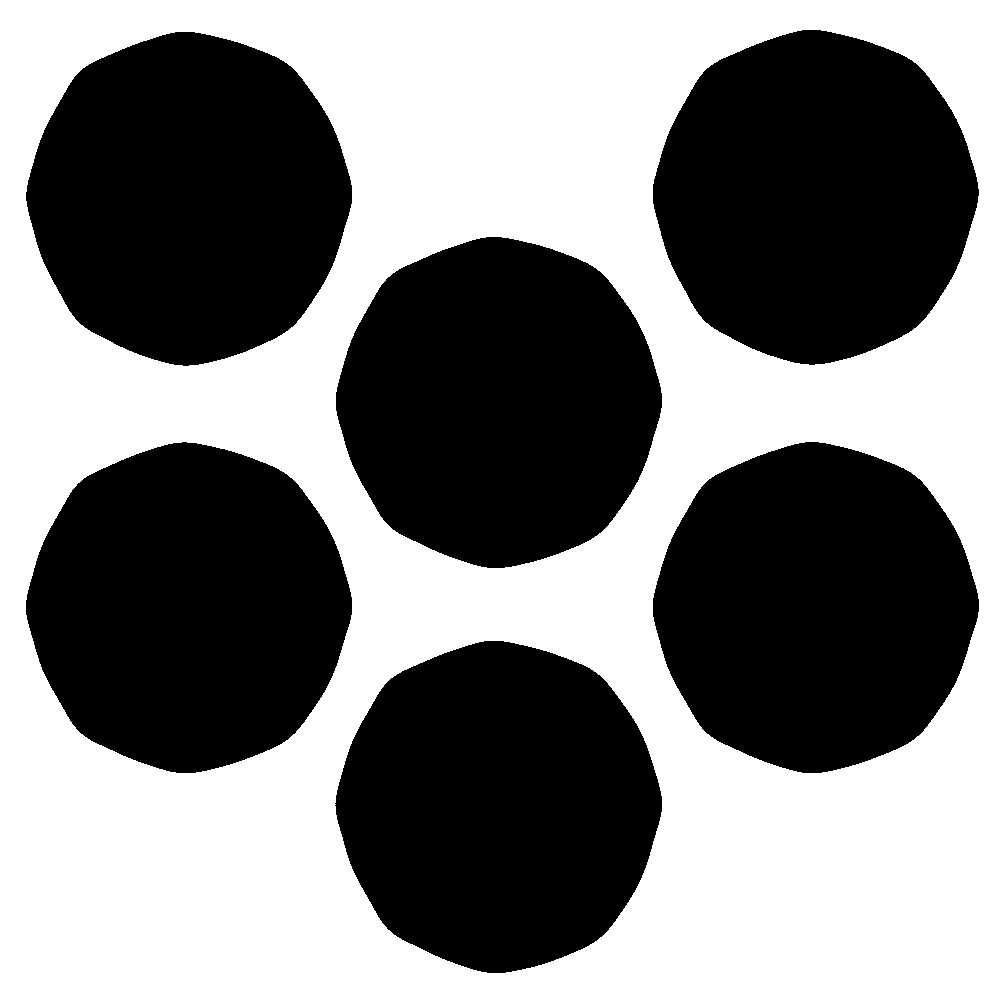
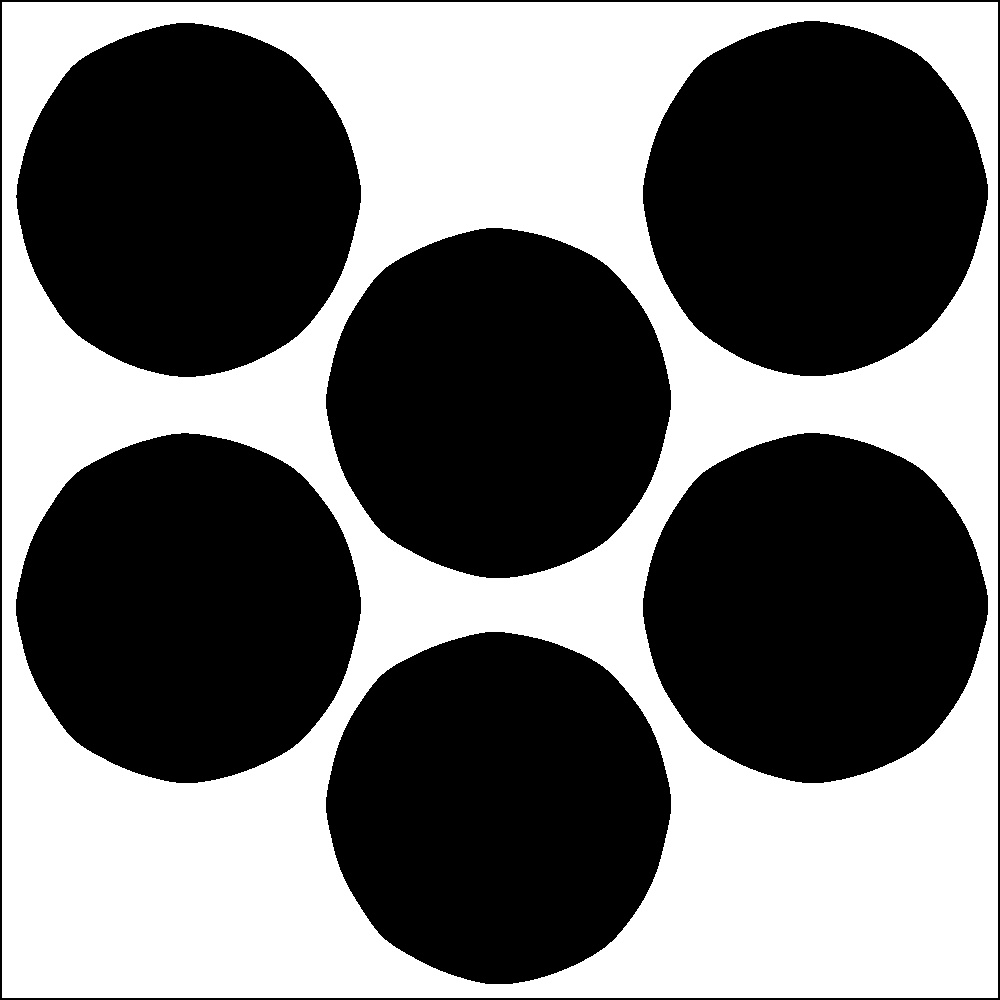
still stuck on the contour search function

diff --git a/ball_finder.py b/ball_finder.py
@@ -14,11 +14,18 @@ args = vars(ap.parse_args())
 img = cv2.imread(args["input"])
 grayScale = cv2.cvtColor(img,cv2.COLOR_BGR2GRAY)
 blur = cv2.GaussianBlur(grayScale,(101,101),0)
-thresh = cv2.threshold(blur,200,255,cv2.THRESH_BINARY)[1]
+thresh = cv2.threshold(blur,225,255,cv2.THRESH_BINARY)[1]
 
-cv2.imwrite(args["output"],thresh)
+#cv2.imwrite(args["output"],thresh)
 
 
-cnts = cv2.findContours(thresh.copy(), cv2.RETR_EXTERNAL, cv2.CHAIN_APPROX_SIMPLE)
+cnts = cv2.findContours(thresh.copy(), cv2.RETR_TREE, cv2.CHAIN_APPROX_SIMPLE)
 cnts = imutils.grab_contours(cnts)
 print("There are {} basketballs in this picture".format(len(cnts)))
+
+for c in cnts:
+	cv2.drawContours(thresh,[c],-1,(0,255,255),2)
+	cv2.imshow("Image",thresh)
+	cv2.waitKey(0);
+
+cv2.imwrite(args["output"],thresh)
